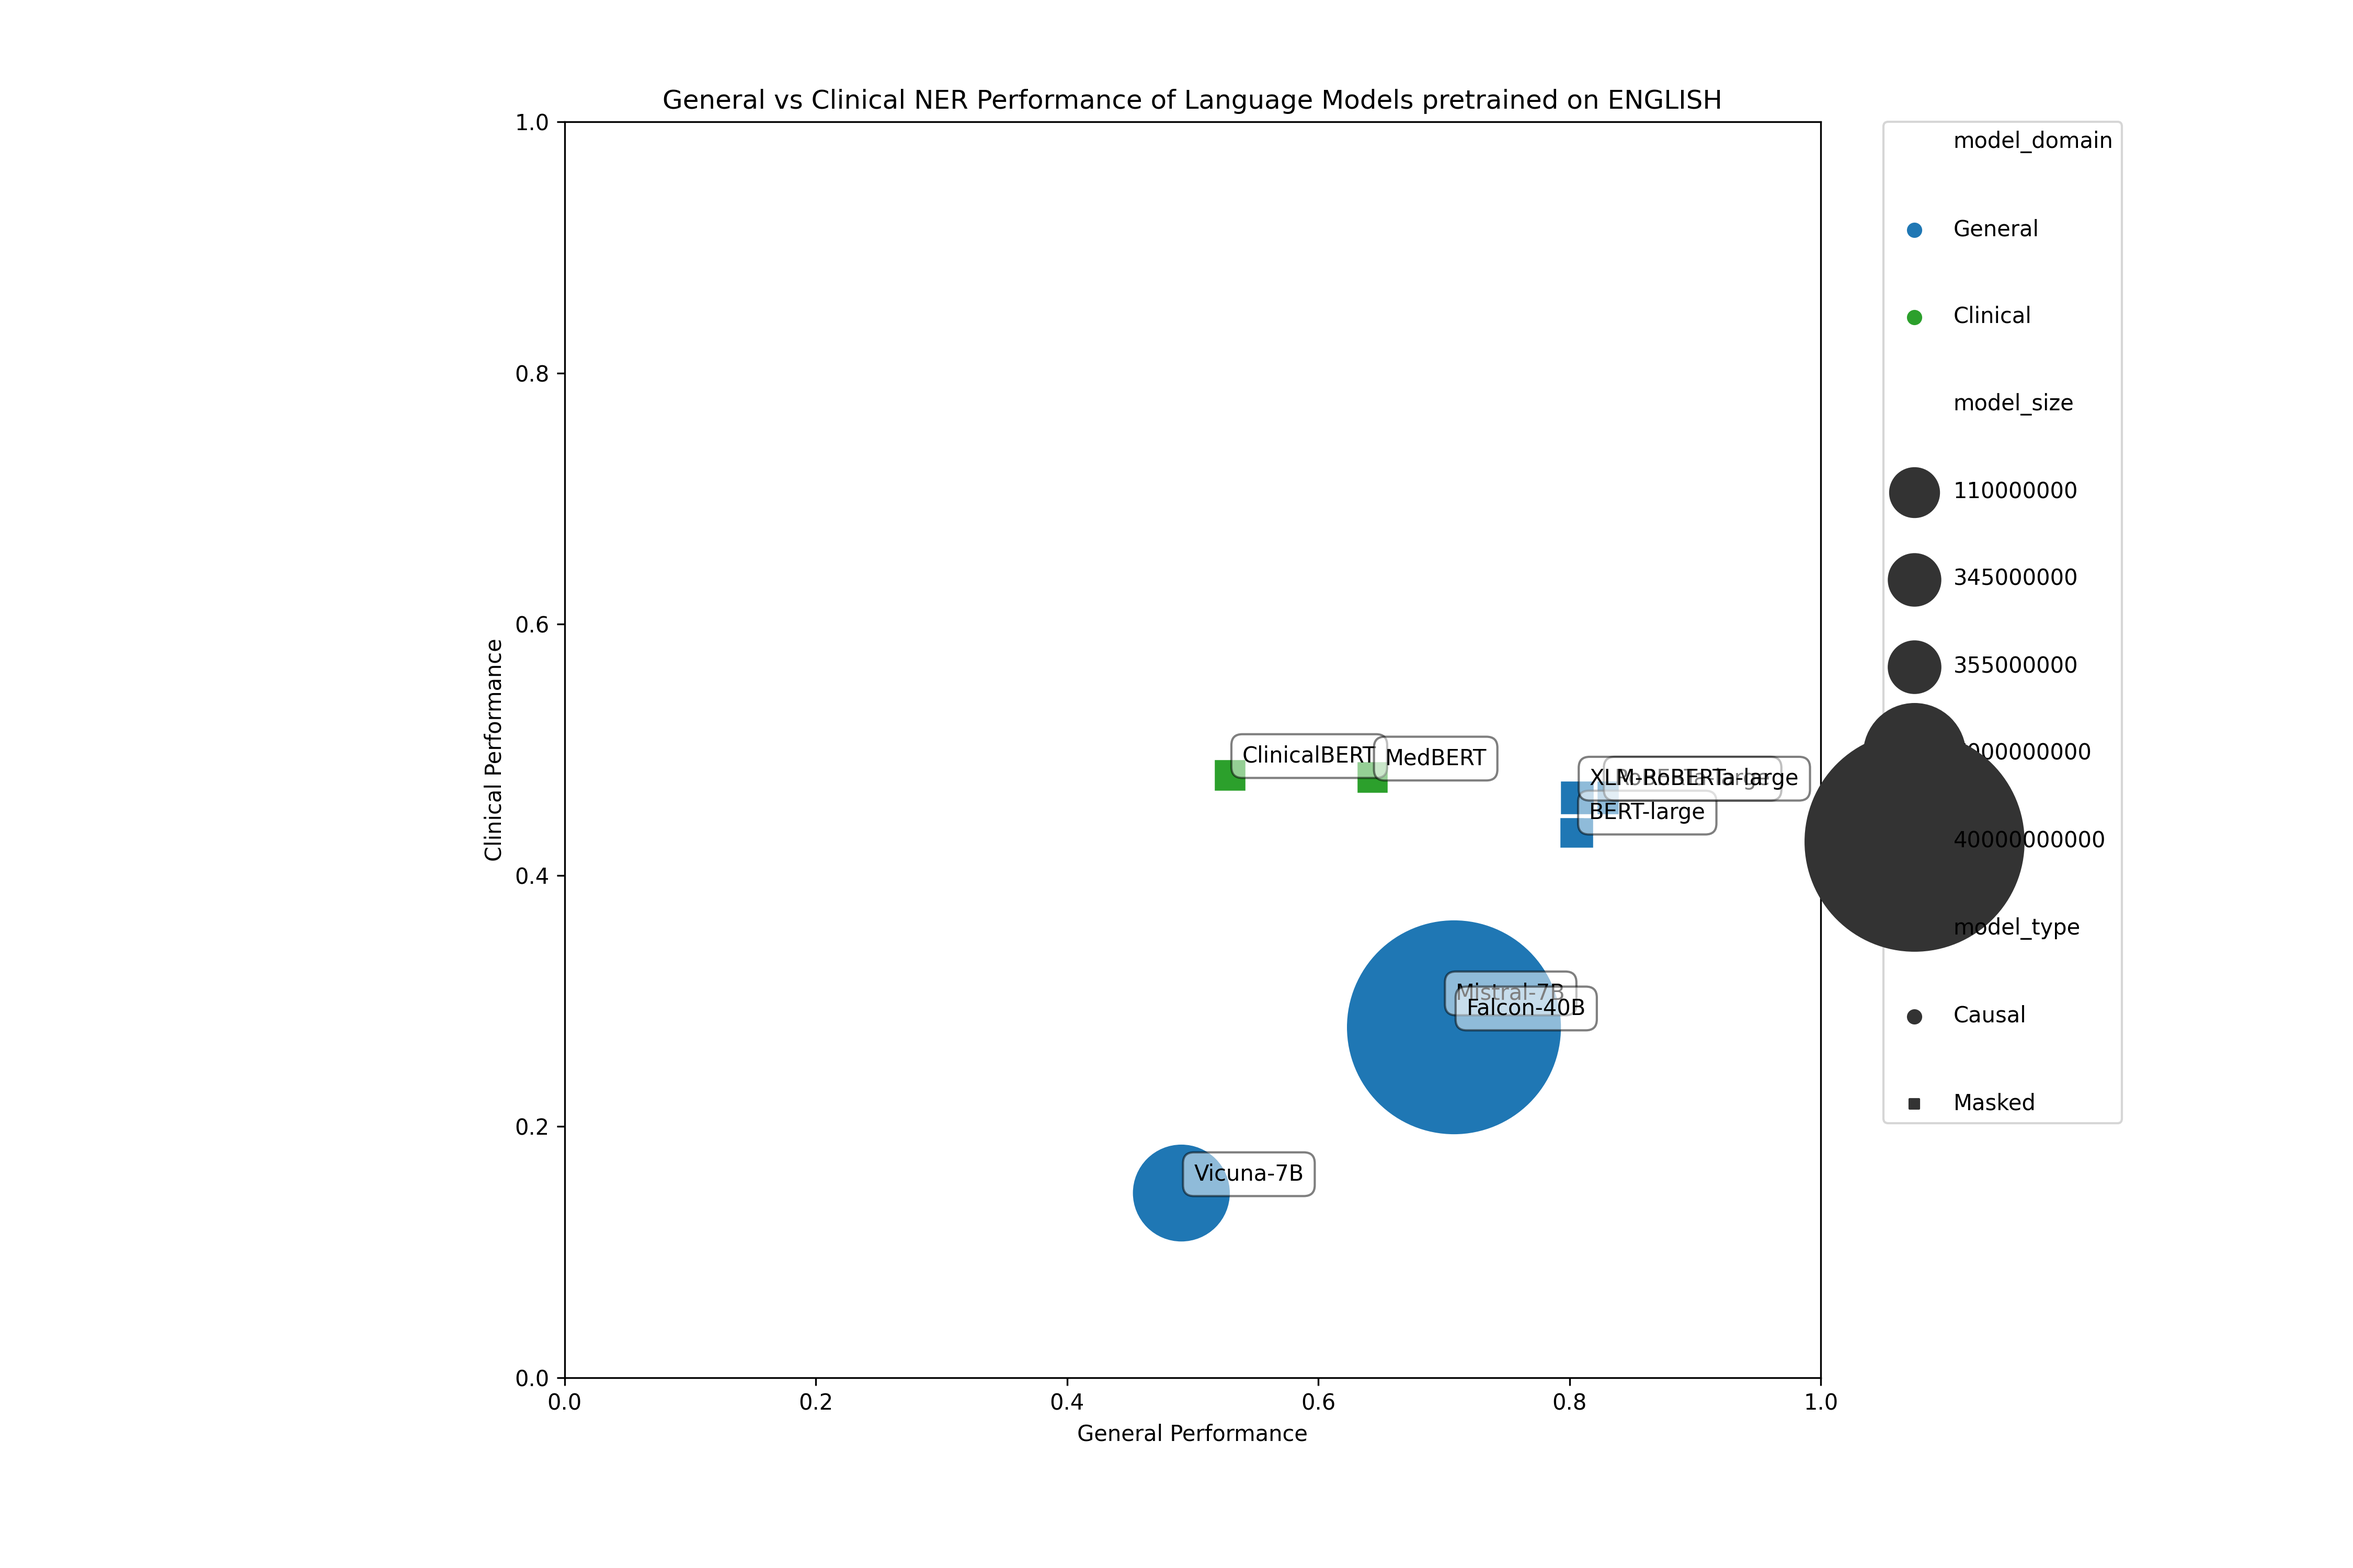
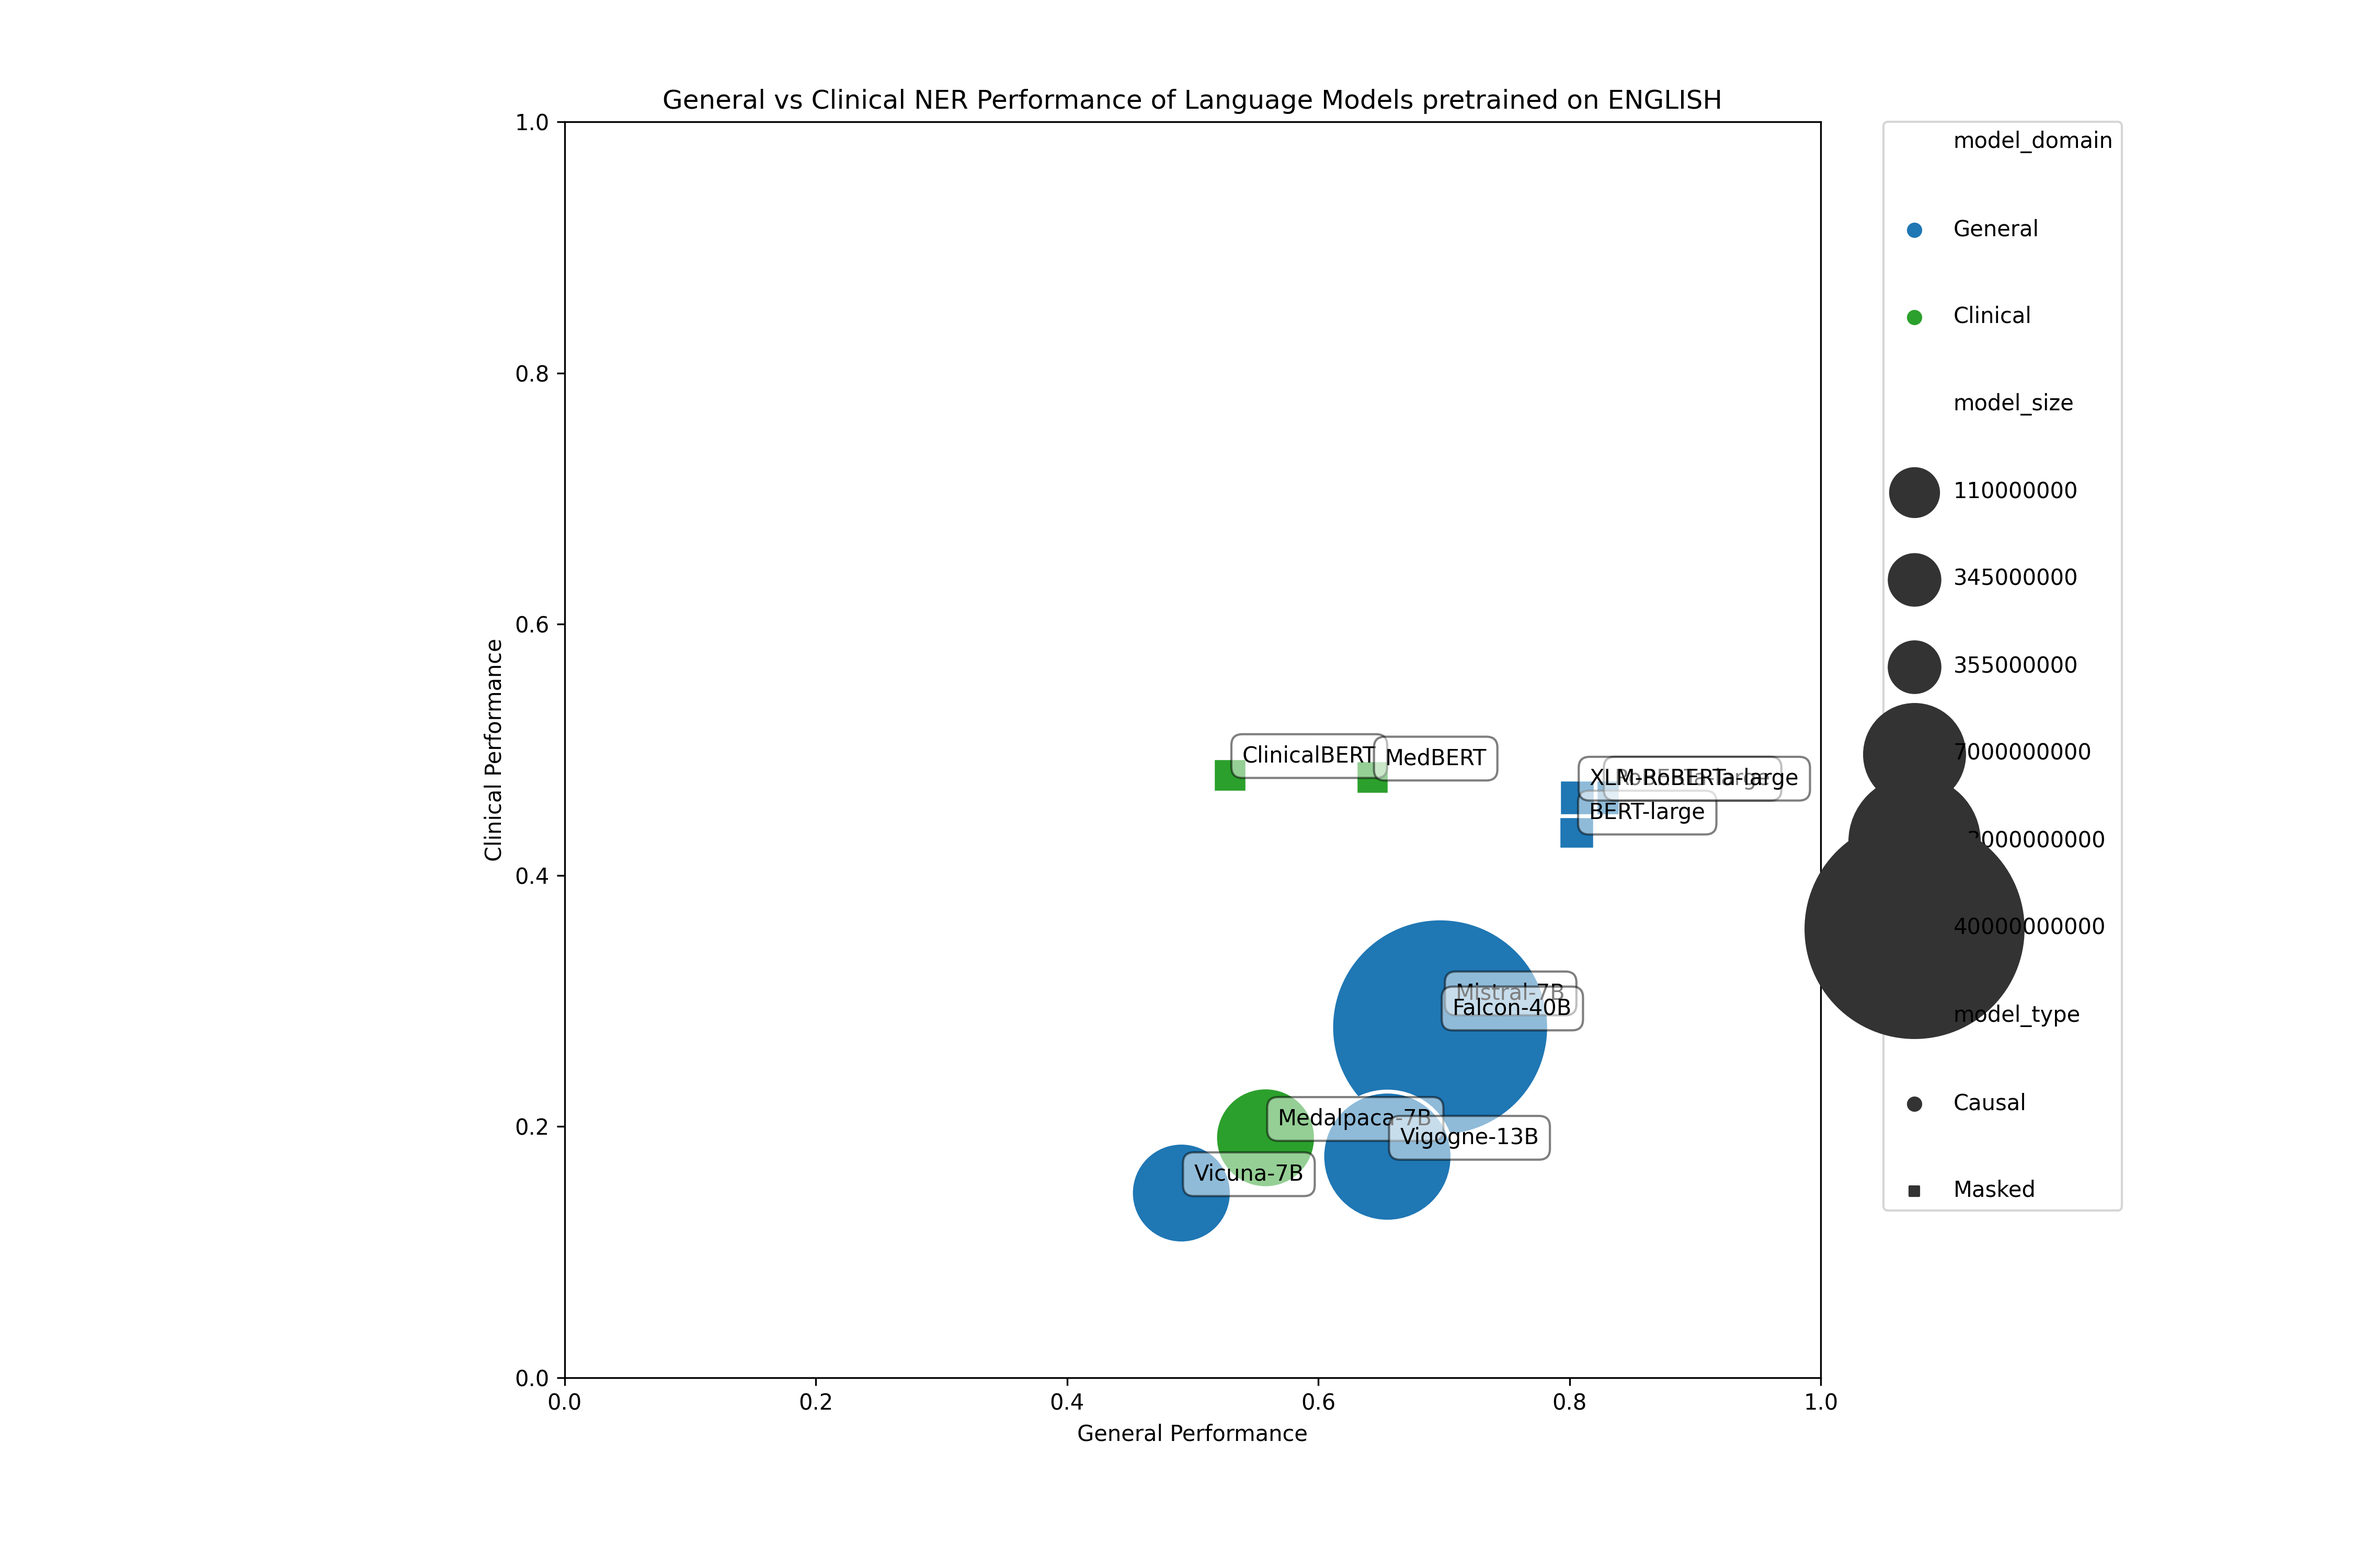
new results

diff --git a/read_jsons.py b/read_jsons.py
@@ -186,6 +186,20 @@ model_hierarchy = {
                 "size": 40*B,
                 "languages" : "all",
             },
+            {
+                "name": "vigogne-2-13b-instruct",
+                "clean_name": "Vigogne-13B",
+                "size": 13*B,
+                "languages" : "french",
+            },
+        ],
+        "Clinical":[
+            {
+                "name": "medalpaca-7b",
+                "clean_name": "Medalpaca-7B",
+                "size": 7*B,
+                "languages" : "all",
+            },
         ],
     }
 }
@@ -222,12 +236,13 @@ def read_jsons(path):
             data.append(json.load(f))
     
     df = pd.DataFrame(data)
-
+    
     df['dataset_name'] = df['dataset_name'].apply(lambda name: name.replace('data-', ''))
     df['dataset_name'] = df['dataset_name'].apply(lambda name: name.replace('naguib-', ''))
     df['lang'] = df['dataset_name'].apply(lambda name: dataset_langs[name])
     df['dataset_domain'] = df['dataset_name'].apply(lambda name: dataset_domains[name])
-    df['model_name'] = df['model_name'].apply(lambda name: name.split('/')[-1])
+    df['model_name'] = df['model_name'].apply(lambda name: name.split('/')[-1] if "vigogne" not in name else name.split('/')[-2])
+
     df['model_domain'] = df['model_name'].apply(lambda name: model_domains[name])
     df['model_type'] = df['model_name'].apply(lambda name: model_types[name])
     df['model_size'] = df['model_name'].apply(lambda name: model_sizes[name])

diff --git a/result_tabs_and_plots/results_table.tex b/result_tabs_and_plots/results_table.tex
@@ -4,9 +4,12 @@
 \cmidrule{3-6} \cmidrule{7-10} \cmidrule{11-14}
 Type & Model & WikiNER-en & CoNLL2003 & E3C-en & n2c2 & WikiNER-fr & E3C-fr & EMEA & MEDLINE & WikiNER-es & CoNLL2002 & E3C-es & CWL \\
 \midrule
-\multirow{3}{*}{Causal} & Mistral-7B & 0.754 & 0.645 & - & 0.291 & 0.727 & - & 0.229 & 0.333 & 0.72 & - & - & - \\
- & Falcon-40B & - & 0.708 & - & 0.279 & - & - & - & 0.283 & - & - & - & - \\
+\multirow{6}{*}{Causal} & Mistral-7B & 0.754 & 0.645 & - & 0.291 & 0.727 & - & 0.229 & 0.333 & 0.72 & - & - & - \\
+ & Falcon-40B & 0.686 & 0.708 & - & 0.279 & 0.662 & - & - & 0.283 & 0.72 & - & - & - \\
+ & Vicuna-13B & - & 0.708 & - & - & - & - & - & 0.326 & - & - & - & - \\
  & Vicuna-7B & 0.594 & 0.388 & - & 0.147 & 0.591 & - & 0.152 & 0.296 & 0.659 & - & - & - \\
+ & Medalpaca-7B & - & 0.558 & - & 0.191 & - & - & 0.161 & 0.224 & - & - & - & - \\
+ & Vigogne-13B & - & 0.655 & - & 0.176 & 0.515 & - & 0.099 & 0.142 & - & - & - & - \\
 \midrule
 \multirow{12}{*}{Masked} & XLM-RoBERTa-large & 0.786 & 0.826 & - & 0.462 & 0.811 & - & 0.629 & 0.531 & 0.797 & 0.781 & - & - \\
  & BERT-large & 0.776 & 0.835 & - & 0.435 & - & - & - & - & - & - & - & - \\

diff --git a/scatterplot_results.py b/scatterplot_results.py
@@ -22,6 +22,8 @@ if not args.local:
 df = read_jsons(os.path.join(script_dir, 'results'))
 #clear DrBERT
 df = df[~df['model_name'].str.contains('DrBERT-7GB')]
+#clear empty model names
+# df = df[df['model_name'] != '']
 
 scatter_data = []
 for language, df_lang in df.groupby('lang'):
